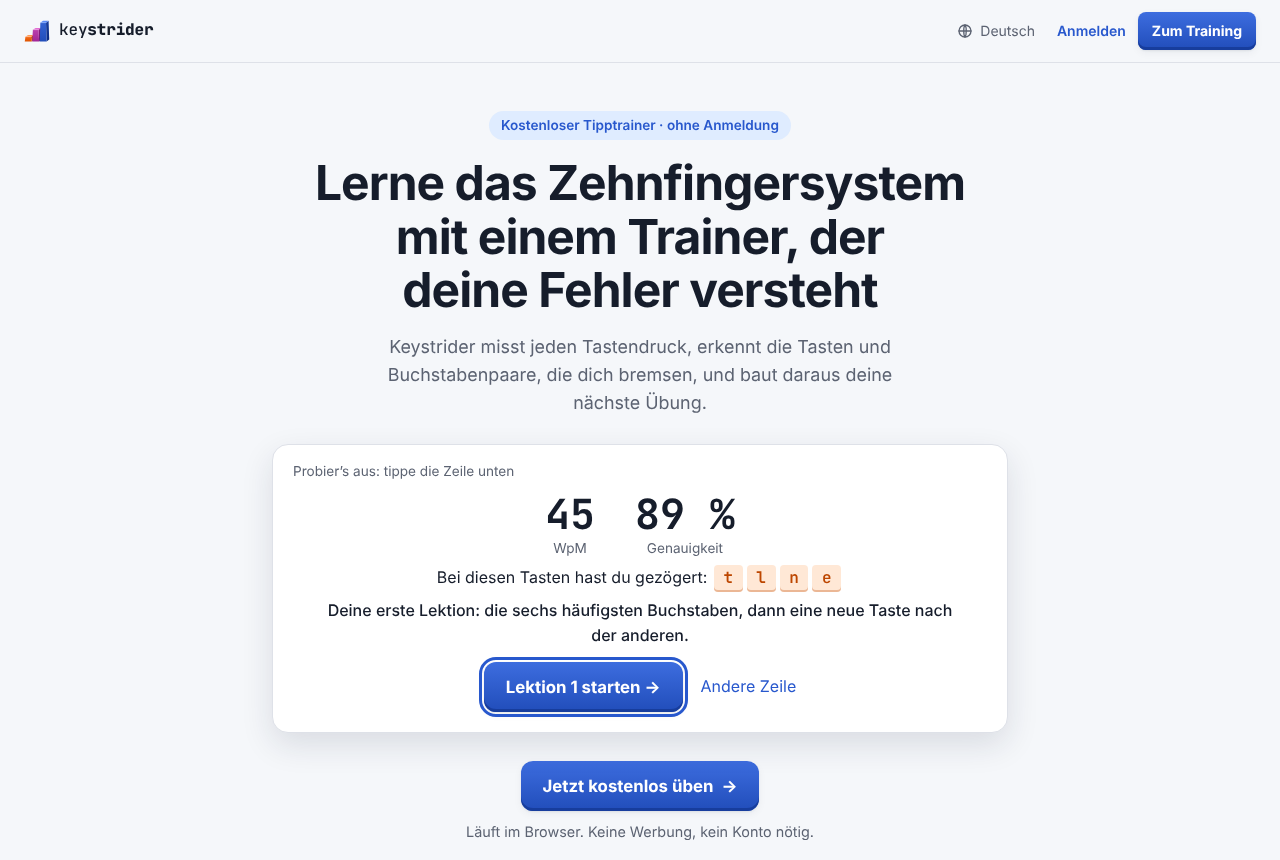
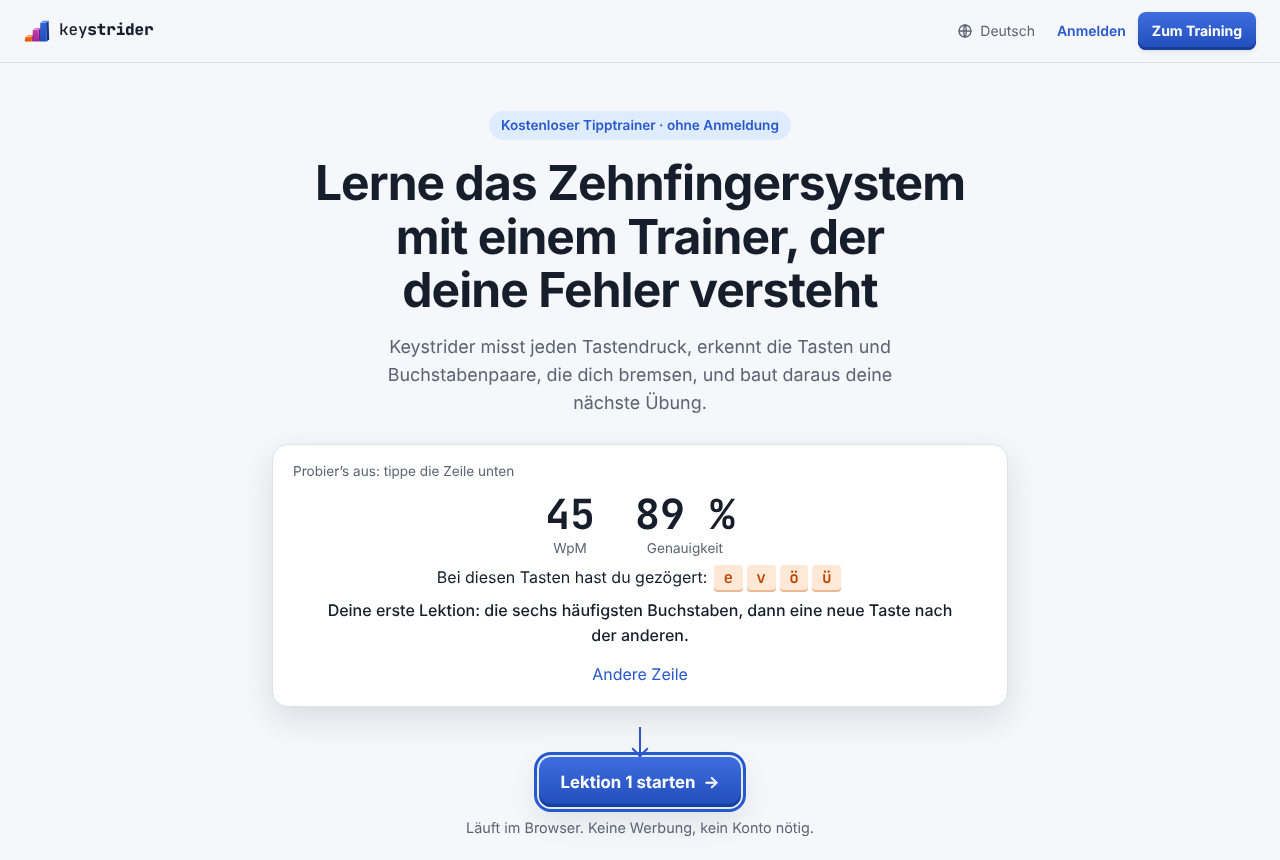
Landing: one start button after the typing line, with an arrow; Keep practising for returning learners
The result no longer has its own button: the start button under the line
takes the next step's name (Start lesson 1 / Finish the placement) and an
arrow points at it. Someone who has practised in this browser before sees
Keep practising on the start buttons. The closing section no longer
mentions a keyboard check that the first visit doesn't have any more.

Claude-Session: https://claude.ai/code/session_01LCijJTw1GbmYX7HyrdJGMF

Changed region(s): [[0.2188, 0.7558, 0.7812, 0.9977]]

diff --git a/src/landing/content.ts b/src/landing/content.ts
@@ -25,7 +25,8 @@ export interface LandingCopy {
   /** Search result snippet, about 155 characters. */
   description: string;
   nav: { languages: string; signIn: string; open: string };
-  hero: { eyebrow: string; title: string; lead: string; cta: string; note: string };
+  /** `continue` replaces `cta` for someone who has practised in this browser before. */
+  hero: { eyebrow: string; title: string; lead: string; cta: string; continue: string; note: string };
   demo: {
     label: string;
     start: string;
@@ -63,6 +64,7 @@ export const COPY: Record<LandingLanguage, LandingCopy> = {
       title: 'Learn to touch type with a trainer that understands your mistakes',
       lead: 'Keystrider measures every keystroke, spots the keys and letter pairs that slow you down, and builds your next drill around them.',
       cta: 'Start practising for free',
+      continue: 'Keep practising',
       note: 'Runs in your browser. No ads, no account needed.',
     },
     demo: {
@@ -114,7 +116,7 @@ export const COPY: Record<LandingLanguage, LandingCopy> = {
         { q: 'Does it work on a phone or tablet?', a: 'Keystrider is made for a real keyboard. A tablet with a keyboard works well; on a phone you can look around, but touch typing needs a physical keyboard.' },
       ],
     },
-    final: { title: 'Your first drill takes two minutes', text: 'Pick your language, check your keyboard and start typing.', cta: 'Start practising' },
+    final: { title: 'Your first drill takes two minutes', text: 'Type one line and Keystrider knows where you start.', cta: 'Start practising' },
     foot: { imprint: 'Legal notice', privacy: 'Privacy', terms: 'Terms' },
   },
 
@@ -130,6 +132,7 @@ export const COPY: Record<LandingLanguage, LandingCopy> = {
       title: 'Lerne das Zehnfingersystem mit einem Trainer, der deine Fehler versteht',
       lead: 'Keystrider misst jeden Tastendruck, erkennt die Tasten und Buchstabenpaare, die dich bremsen, und baut daraus deine nächste Übung.',
       cta: 'Jetzt kostenlos üben',
+      continue: 'Weiter üben',
       note: 'Läuft im Browser. Keine Werbung, kein Konto nötig.',
     },
     demo: {
@@ -181,7 +184,7 @@ export const COPY: Record<LandingLanguage, LandingCopy> = {
         { q: 'Geht das auch auf Handy oder Tablet?', a: 'Keystrider ist für eine echte Tastatur gemacht. Ein Tablet mit Tastatur funktioniert gut; auf dem Handy kannst du dich umsehen, aber blind tippen lernt man an einer richtigen Tastatur.' },
       ],
     },
-    final: { title: 'Deine erste Übung dauert zwei Minuten', text: 'Sprache wählen, Tastatur prüfen, lostippen.', cta: 'Jetzt üben' },
+    final: { title: 'Deine erste Übung dauert zwei Minuten', text: 'Eine Zeile tippen, und Keystrider weiß, wo du anfängst.', cta: 'Jetzt üben' },
     foot: { imprint: 'Impressum', privacy: 'Datenschutz', terms: 'Nutzungsbedingungen' },
   },
 
@@ -197,6 +200,7 @@ export const COPY: Record<LandingLanguage, LandingCopy> = {
       title: 'Aprende mecanografía con un entrenador que entiende tus errores',
       lead: 'Keystrider mide cada pulsación, detecta las teclas y pares de letras que te frenan y crea con ellos tu próximo ejercicio.',
       cta: 'Empezar gratis',
+      continue: 'Seguir practicando',
       note: 'Funciona en el navegador. Sin anuncios y sin cuenta.',
     },
     demo: {
@@ -248,7 +252,7 @@ export const COPY: Record<LandingLanguage, LandingCopy> = {
         { q: '¿Funciona en el móvil o la tableta?', a: 'Keystrider está pensado para un teclado físico. Una tableta con teclado funciona bien; en el móvil puedes echar un vistazo, pero la mecanografía se aprende con un teclado de verdad.' },
       ],
     },
-    final: { title: 'Tu primer ejercicio lleva dos minutos', text: 'Elige idioma, comprueba tu teclado y empieza a escribir.', cta: 'Empezar' },
+    final: { title: 'Tu primer ejercicio lleva dos minutos', text: 'Escribe una línea y Keystrider sabrá por dónde empiezas.', cta: 'Empezar' },
     foot: { imprint: 'Aviso legal', privacy: 'Privacidad', terms: 'Condiciones de uso' },
   },
 
@@ -264,6 +268,7 @@ export const COPY: Record<LandingLanguage, LandingCopy> = {
       title: 'Tapez à dix doigts avec un entraîneur qui comprend vos erreurs',
       lead: 'Keystrider mesure chaque frappe, repère les touches et paires de lettres qui vous ralentissent et construit votre prochain exercice autour d’elles.',
       cta: 'Commencer gratuitement',
+      continue: 'Continuer l’entraînement',
       note: 'Dans le navigateur. Sans publicité, sans compte.',
     },
     demo: {
@@ -315,7 +320,7 @@ export const COPY: Record<LandingLanguage, LandingCopy> = {
         { q: 'Ça marche sur téléphone ou tablette ?', a: 'Keystrider est fait pour un vrai clavier. Une tablette avec clavier fonctionne bien ; sur téléphone vous pouvez jeter un œil, mais la frappe à dix doigts s’apprend sur un clavier physique.' },
       ],
     },
-    final: { title: 'Votre premier exercice prend deux minutes', text: 'Choisissez la langue, vérifiez votre clavier et tapez.', cta: 'Commencer' },
+    final: { title: 'Votre premier exercice prend deux minutes', text: 'Tapez une ligne et Keystrider sait par où vous commencez.', cta: 'Commencer' },
     foot: { imprint: 'Mentions légales', privacy: 'Confidentialité', terms: 'Conditions d’utilisation' },
   },
 
@@ -331,6 +336,7 @@ export const COPY: Record<LandingLanguage, LandingCopy> = {
       title: 'Impara a scrivere con dieci dita con un allenatore che capisce i tuoi errori',
       lead: 'Keystrider misura ogni battuta, individua i tasti e le coppie di lettere che ti rallentano e ci costruisce sopra il tuo prossimo esercizio.',
       cta: 'Inizia gratis',
+      continue: 'Continua ad allenarti',
       note: 'Funziona nel browser. Niente pubblicità, nessun account.',
     },
     demo: {
@@ -382,7 +388,7 @@ export const COPY: Record<LandingLanguage, LandingCopy> = {
         { q: 'Funziona su telefono o tablet?', a: 'Keystrider è pensato per una tastiera vera. Un tablet con tastiera va bene; sul telefono puoi dare un’occhiata, ma a scrivere con dieci dita si impara su una tastiera fisica.' },
       ],
     },
-    final: { title: 'Il primo esercizio richiede due minuti', text: 'Scegli la lingua, controlla la tastiera e inizia a scrivere.', cta: 'Inizia' },
+    final: { title: 'Il primo esercizio richiede due minuti', text: 'Scrivi una riga e Keystrider sa da dove partire.', cta: 'Inizia' },
     foot: { imprint: 'Note legali', privacy: 'Privacy', terms: 'Condizioni d’uso' },
   },
 
@@ -398,6 +404,7 @@ export const COPY: Record<LandingLanguage, LandingCopy> = {
       title: 'Naucz się pisać bezwzrokowo z trenerem, który rozumie twoje błędy',
       lead: 'Keystrider mierzy każde uderzenie w klawisz, wyłapuje klawisze i pary liter, które cię spowalniają, i na nich buduje kolejne ćwiczenie.',
       cta: 'Zacznij za darmo',
+      continue: 'Ćwicz dalej',
       note: 'Działa w przeglądarce. Bez reklam i bez konta.',
     },
     demo: {
@@ -449,7 +456,7 @@ export const COPY: Record<LandingLanguage, LandingCopy> = {
         { q: 'Czy działa na telefonie lub tablecie?', a: 'Keystrider jest zrobiony dla prawdziwej klawiatury. Tablet z klawiaturą sprawdza się dobrze; na telefonie możesz się rozejrzeć, ale pisania bezwzrokowego uczy się na fizycznej klawiaturze.' },
       ],
     },
-    final: { title: 'Pierwsze ćwiczenie zajmie dwie minuty', text: 'Wybierz język, sprawdź klawiaturę i zacznij pisać.', cta: 'Zacznij' },
+    final: { title: 'Pierwsze ćwiczenie zajmie dwie minuty', text: 'Przepisz jedną linijkę, a Keystrider będzie wiedział, od czego zacząć.', cta: 'Zacznij' },
     foot: { imprint: 'Nota prawna', privacy: 'Prywatność', terms: 'Regulamin' },
   },
 };

diff --git a/src/landing/main.ts b/src/landing/main.ts
@@ -12,11 +12,15 @@ import type { LandingCopy, LandingLanguage } from './content';
  * wrong key holds you on the letter), with the layout recognised from the
  * keys pressed. At the end it shows speed, accuracy and the keys that held
  * the learner up, and says what comes next in the trainer: lesson 1, or the
- * rest of the placement test for whoever can skip ahead. The keystrokes are
- * handed over (handoff.ts) so the trainer carries on from here.
+ * rest of the placement test for whoever can skip ahead. The page's one start
+ * button below then says so, with an arrow pointing at it. The keystrokes
+ * are handed over (handoff.ts) so the trainer carries on from here.
+ *
+ * Someone who has practised in this browser before sees "Keep practising"
+ * on the start buttons instead.
  */
 
-type Demo = LandingCopy['demo'] & { app: string; lang: LandingLanguage };
+type Demo = LandingCopy['demo'] & { app: string; lang: LandingLanguage; continue: string };
 
 const theme = loadThemeSetting();
 if (theme !== 'system') document.documentElement.dataset.theme = theme;
@@ -28,6 +32,20 @@ const input = document.getElementById('lp-input') as HTMLTextAreaElement;
 const startPill = document.getElementById('lp-start')!;
 const stats = document.getElementById('lp-stats')!;
 const result = document.getElementById('lp-result')!;
+const cta = document.getElementById('lp-cta')!;
+const go = document.getElementById('lp-go')!;
+const goLabel = go.querySelector<HTMLElement>('[data-cta]')!;
+const startLabel = goLabel.textContent!;
+
+/** Has practised here before: the same test as public/to-app.js, which sends them on unless they asked for this page. */
+const returning = (() => {
+  try {
+    return localStorage.getItem('typing-trainer.onboarded') === '1' || localStorage.getItem('typing-trainer.language') !== null;
+  } catch {
+    return false;
+  }
+})();
+if (returning) document.querySelectorAll('[data-cta]').forEach((el) => { el.textContent = demo.continue; });
 
 const browserLocales = navigator.languages?.length ? navigator.languages : [navigator.language];
 const guessedLayout = guessFromLocale(browserLocales);
@@ -55,6 +73,8 @@ function reset(): void {
   stats.textContent = '';
   result.hidden = true;
   textEl.hidden = false;
+  cta.classList.remove('is-ready');
+  goLabel.textContent = returning ? demo.continue : startLabel;
   showPill();
 }
 
@@ -164,14 +184,13 @@ function finish(): void {
   const next = el('p', 'lp-next', fast ? demo.nextFast.replace('{n}', String(left)) : demo.nextBeginner);
 
   const actions = el('div', 'lp-actions');
-  const go = Object.assign(el('a', 'lp-btn', `${fast ? demo.ctaFast : demo.ctaBeginner} →`), { href: demo.app });
   const again = Object.assign(el('button', 'link-btn', demo.again), { type: 'button' });
   again.addEventListener('click', () => {
     lineIndex++;
     reset();
     input.focus();
   });
-  actions.append(go, again);
+  actions.append(again);
 
   result.replaceChildren(numbers, weak, next, actions);
   textEl.hidden = true;
@@ -179,7 +198,11 @@ function finish(): void {
   result.hidden = false;
   input.blur();
   showPill();
-  go.focus();
+  // One way on: the start button under the line now names the next step, and an arrow points at it.
+  goLabel.textContent = returning ? demo.continue : fast ? demo.ctaFast : demo.ctaBeginner;
+  cta.classList.add('is-ready');
+  go.focus({ preventScroll: true });
+  go.scrollIntoView({ block: 'nearest', behavior: matchMedia('(prefers-reduced-motion: reduce)').matches ? 'auto' : 'smooth' });
 }
 
 input.addEventListener('keydown', (e) => {

diff --git a/src/landing/render.ts b/src/landing/render.ts
@@ -113,8 +113,9 @@ export function renderLanding(lang: LandingLanguage, site: string): string {
           <div id="lp-result" class="lp-result" role="status" hidden></div>
         </div>
 
-        <div class="lp-cta">
-          <a class="lp-btn" href="${app}">${esc(c.hero.cta)} <span aria-hidden="true">→</span></a>
+        <div id="lp-cta" class="lp-cta">
+          <span class="lp-arrow" aria-hidden="true"></span>
+          <a id="lp-go" class="lp-btn" href="${app}"><span data-cta>${esc(c.hero.cta)}</span> <span aria-hidden="true">→</span></a>
           <p class="lp-note">${esc(c.hero.note)}</p>
         </div>
       </section>
@@ -142,7 +143,7 @@ export function renderLanding(lang: LandingLanguage, site: string): string {
       <section class="lp-final">
         <h2>${esc(c.final.title)}</h2>
         <p>${esc(c.final.text)}</p>
-        <a class="lp-btn" href="${app}">${esc(c.final.cta)} <span aria-hidden="true">→</span></a>
+        <a class="lp-btn" href="${app}"><span data-cta>${esc(c.final.cta)}</span> <span aria-hidden="true">→</span></a>
       </section>
     </main>
 
@@ -153,7 +154,7 @@ export function renderLanding(lang: LandingLanguage, site: string): string {
       <a href="/nutzungsbedingungen">${esc(c.foot.terms)}</a>
     </footer>
 
-    <script type="application/json" id="lp-data">${jsonBlock({ ...c.demo, app, lang })}</script>
+    <script type="application/json" id="lp-data">${jsonBlock({ ...c.demo, app, lang, continue: c.hero.continue })}</script>
     <script type="module" src="/src/landing/main.ts"></script>
   </body>
 </html>

diff --git a/src/landing/landing.css b/src/landing/landing.css
@@ -68,6 +68,16 @@ a.lp-signin:hover { text-decoration: underline; }
 .lp-actions { display: flex; justify-content: center; align-items: center; gap: 18px; flex-wrap: wrap; margin-top: 14px; }
 
 .lp-cta { margin-top: 28px; display: grid; justify-items: center; gap: 10px; }
+/* After the typing line: an arrow from the result down to the one start button, which lifts a little. */
+.lp-arrow { display: none; width: 2px; height: 26px; margin-top: -14px; background: var(--accent); position: relative; animation: lp-nudge 1.2s ease-in-out infinite; }
+.lp-arrow::after {
+  content: ""; position: absolute; left: 50%; bottom: -2px; width: 10px; height: 10px; transform: translateX(-50%) rotate(45deg);
+  border-right: 2px solid var(--accent); border-bottom: 2px solid var(--accent);
+}
+.lp-cta.is-ready .lp-arrow { display: block; }
+.lp-cta.is-ready .lp-btn { box-shadow: inset 0 -3px 0 var(--cobalt-edge), 0 0 0 4px var(--accent-soft), var(--shadow); }
+@keyframes lp-nudge { 50% { transform: translateY(6px); } }
+@media (prefers-reduced-motion: reduce) { .lp-arrow { animation: none; } }
 .lp-note { margin: 0; font-size: 0.9rem; color: var(--muted); }
 
 /* --- Sections --- */
